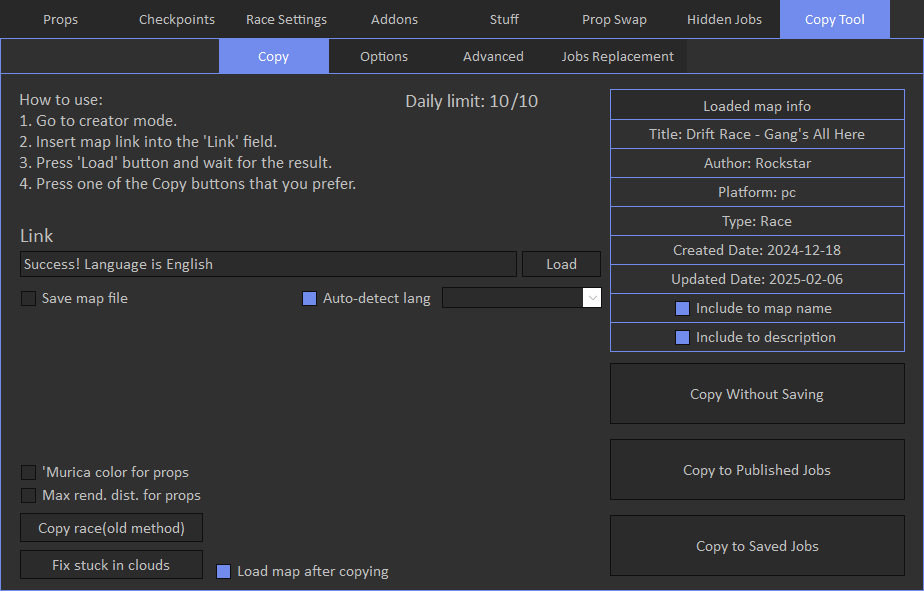
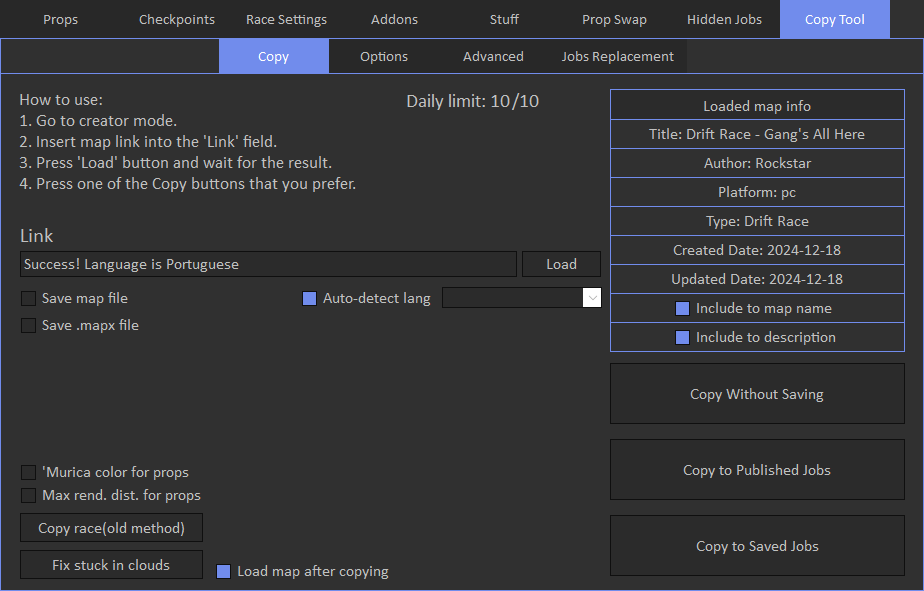
update copy tab

diff --git a/docs/copy-tool/copy/overview.md b/docs/copy-tool/copy/overview.md
@@ -22,4 +22,6 @@ This option will only load race in the creator without saving or publishing.
 
 'Save map file' options will save map json file in the same directory where tool is localated when you load a map by link.
 
+'Save .mapx file' options will save map as .mapx file also in the same directory with mod tool. You can restore this map file on the [Map Options](../../../race-settings/map-options/overview) tab.
+
 'Include to map name' and description options will add info about original platform and author. You can configure it on the [Options](../../../copy-tool/options/overview) tab.
